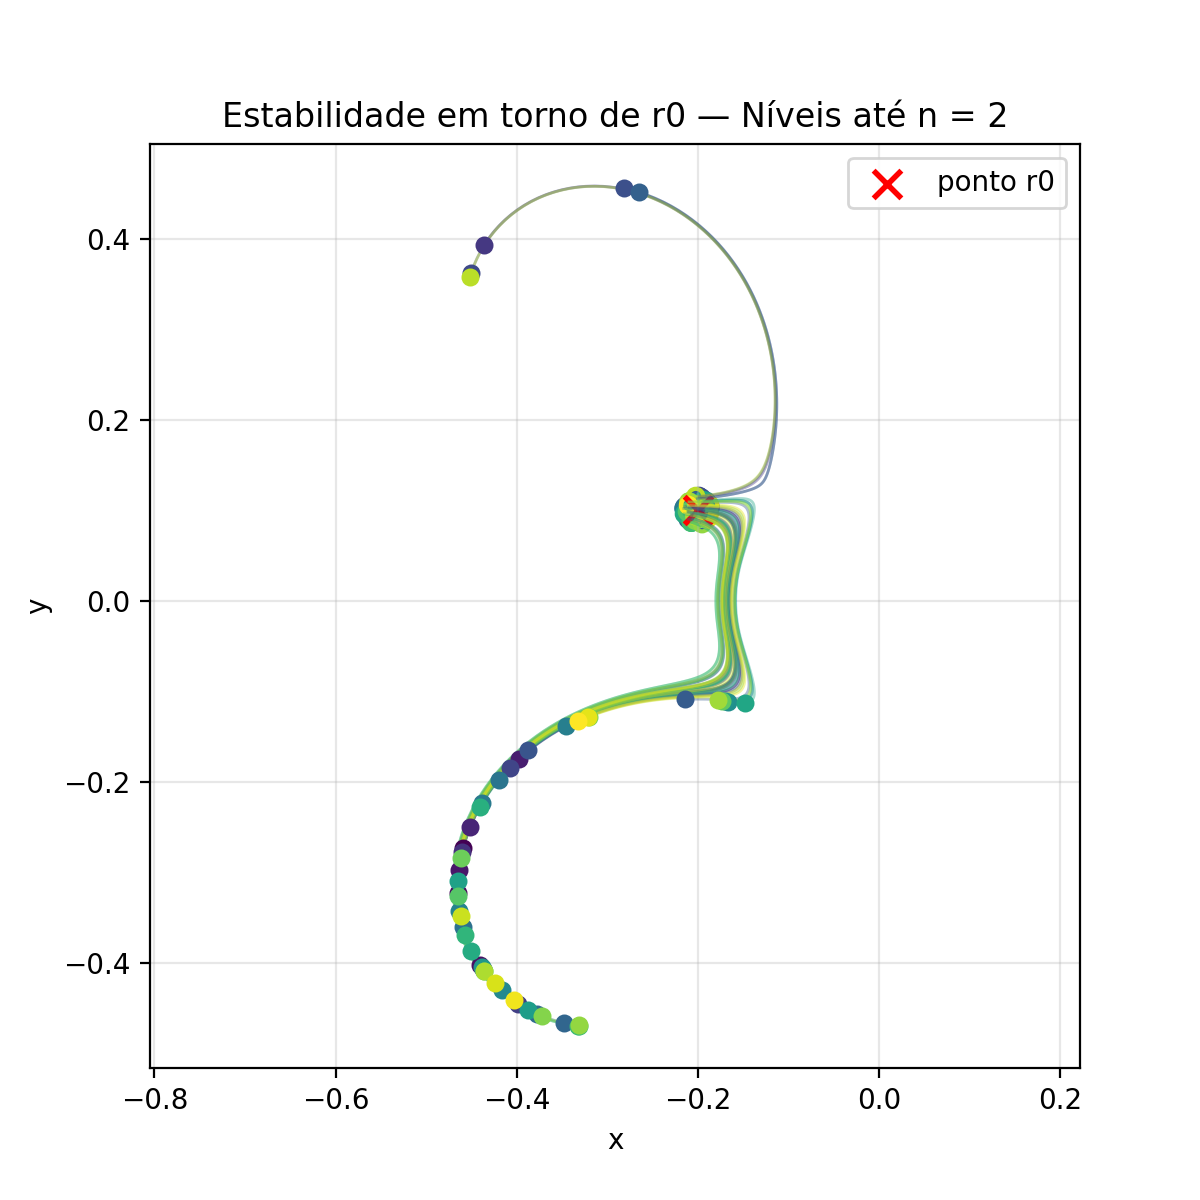
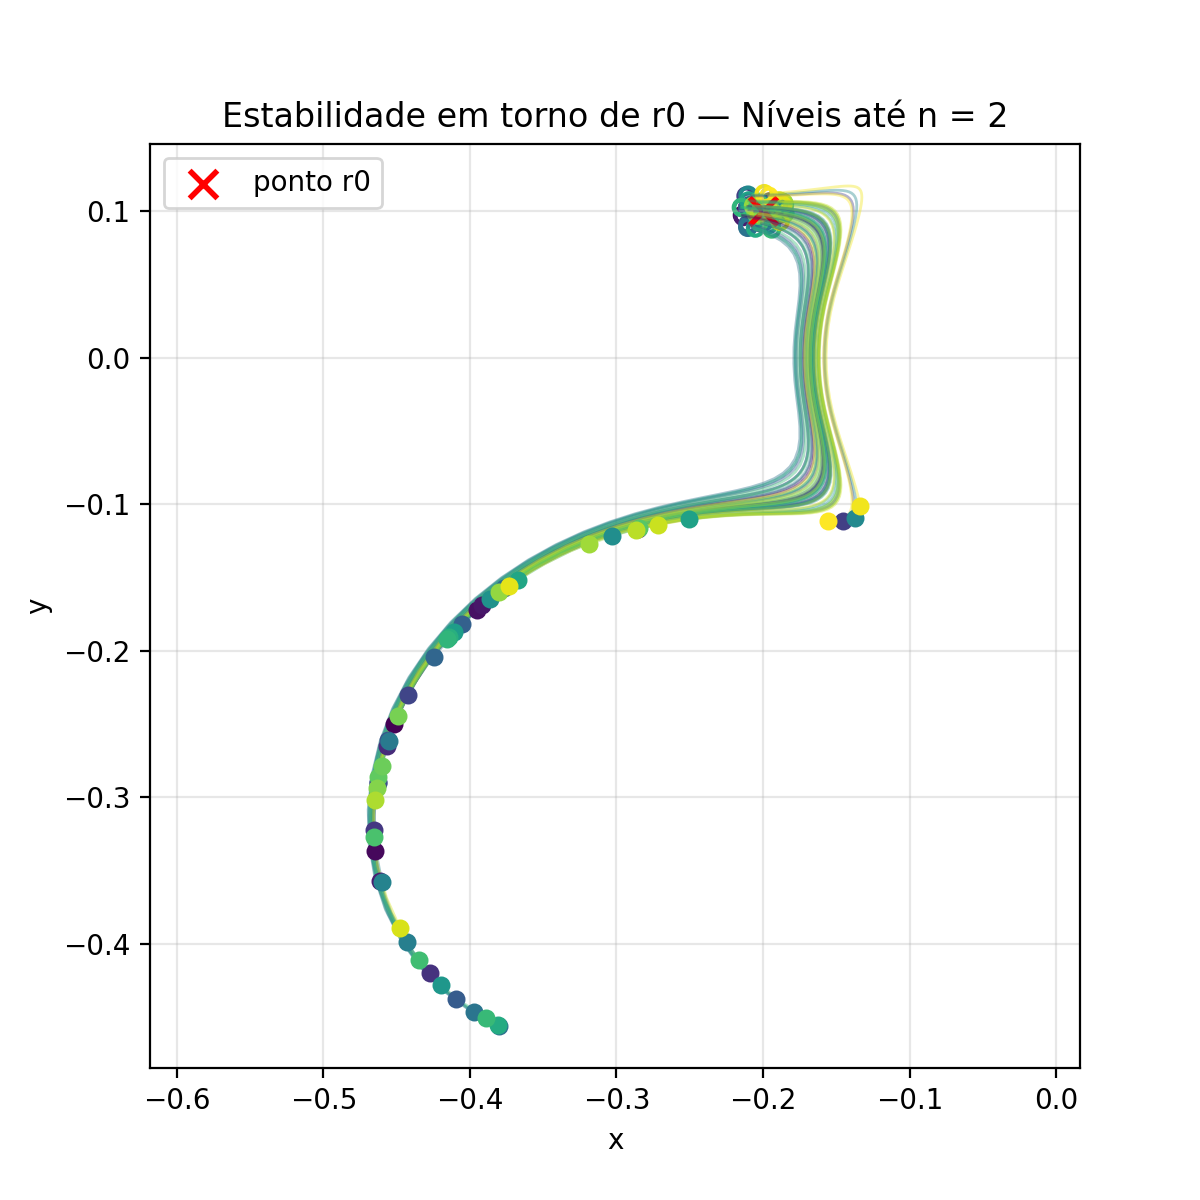
sla

diff --git a/integradores.py b/integradores.py
@@ -3,7 +3,7 @@ import os
 from matplotlib import pyplot as plt
 import funcoes_para_centros as fc
 from funcoes_para_centros import R_1, O_1, lamb, x_1
-
+import time 
 
 def solve_RK4(func, r0, t0, dt, t_max):
     """
@@ -46,7 +46,7 @@ def simular_particulas(N, N_fields, dimensao_quadrado, r0, dt=0.01, t_max=1, fun
     def funcao(t, r):
         x = r[:, 0]
         y = r[:, 1]
-        Vx, Vy = func(x, y, t, N_fields)
+        Vx, Vy = func(x, y, 0, N_fields)
         return np.column_stack((Vx, Vy))
 
     L = dimensao_quadrado
@@ -88,14 +88,14 @@ def testar_estabilidade_2(
     """
 
     os.makedirs(pasta_saida, exist_ok=True)
-
+    
     for n in range(nivel_min, nivel_max + 1):
-
+        t0 = time.perf_counter()
 
         # Escalas naturais do nível
         L = fc.R(n)/16         # tamanho da nuvem inicial
-        dt = 0.08 * fc.R(n)             # passo temporal
-        t_max = 5         # tempo total (alguns períodos)
+        dt = 0.03 * fc.R(n)             # passo temporal
+        t_max = lamb/2        # tempo total (alguns períodos)
 
         print(f"Testando estabilidade para n = {n}")
 
@@ -110,7 +110,7 @@ def testar_estabilidade_2(
 
         # rs tem shape (Nt, N, 2)
         Nt = rs.shape[0]
-
+        t1 = time.perf_counter()
         plt.figure(figsize=(6, 6))
 
 
@@ -170,6 +170,6 @@ def testar_estabilidade_2(
         )
         plt.savefig(nome_arquivo, dpi=200)
         plt.close()
-
+        print(f"Tempo demorado: {t1 - t0}")
         print(f"Imagem salva em: {nome_arquivo}")
 

diff --git a/campos.py b/campos.py
@@ -270,33 +270,37 @@ x = np.array([-.2])
 y = np.array([.1])
 
 
-n = 20
+'''n = 4
 # Função para simular as partículas.
 x = np.array([-.2, -.201, .1])
 y = np.array([.1, .1, .013])
-t = 0
+t = 0.2
 
 a = campo_total_otimo(x, y, t, n)
 b = campo_total_otimo_vet(x, y, t, n)
 d = campo_total_podado(x,y, t, n)
 c = campo_total_correto(x, y , t, n)
-
+t_linspace = np.linspace(0, lamb, 100)
+for i in t_linspace:
+    print(i)
+    c = campo_total_correto(x,y, i, n)
+    d = campo_total_podado(x,y, i, n)
+    print(np.array(c)- np.array(d))
 
 print(f'campo total otimo:{a}')
 print(f'campo total otimo vetorizado certo:{b}')
 print(f'campo total correto:{c}')
-print(f'campo total podado:{d}')
+print(f'campo total podado:{np.array(d)}')
+print(f'subtração do podado: {np.array(d)- np.array(c)}')'''
 
-'''
 r0 = np.array([[-.2, .1]])
-a= 'estabilidade_2'
+a= 'estabilidade_podada'
 b ='estabilidade_com_todos_os_pontos'
 it.testar_estabilidade_2(
-    nivel_max=7,
+    nivel_max=8,
     N_particulas=50,
     r0=r0,
-    nivel_min = 5,
-    pasta_saida= b,
-    funcao=campo_total_correto
+    nivel_min = 1,
+    pasta_saida= a,
+    funcao=campo_total_podado
 )
-'''

diff --git a/comparar.py b/comparar.py
@@ -1,5 +1,5 @@
 import time
-import estático as es
+import campos 
 import os
 
 # Comparar tempo dos campos 
@@ -14,19 +14,19 @@ Nrep=100
 t0=time.perf_counter()
 
 for _ in range(Nrep):
-    es.campo_total_podado(
+    campos.campo_total_podado(
         xp,yp,t,nmax
     )
 
 t1=time.perf_counter()
 
 tempo_podado=t1-t0
-print(tempo_podado)
+
 # -------- campo completo ----------
 t0=time.perf_counter()
 
 for _ in range(Nrep):
-    es.campo_total_correto(
+    campos.campo_total_correto(
         xp,yp,t,nmax
     )
 
